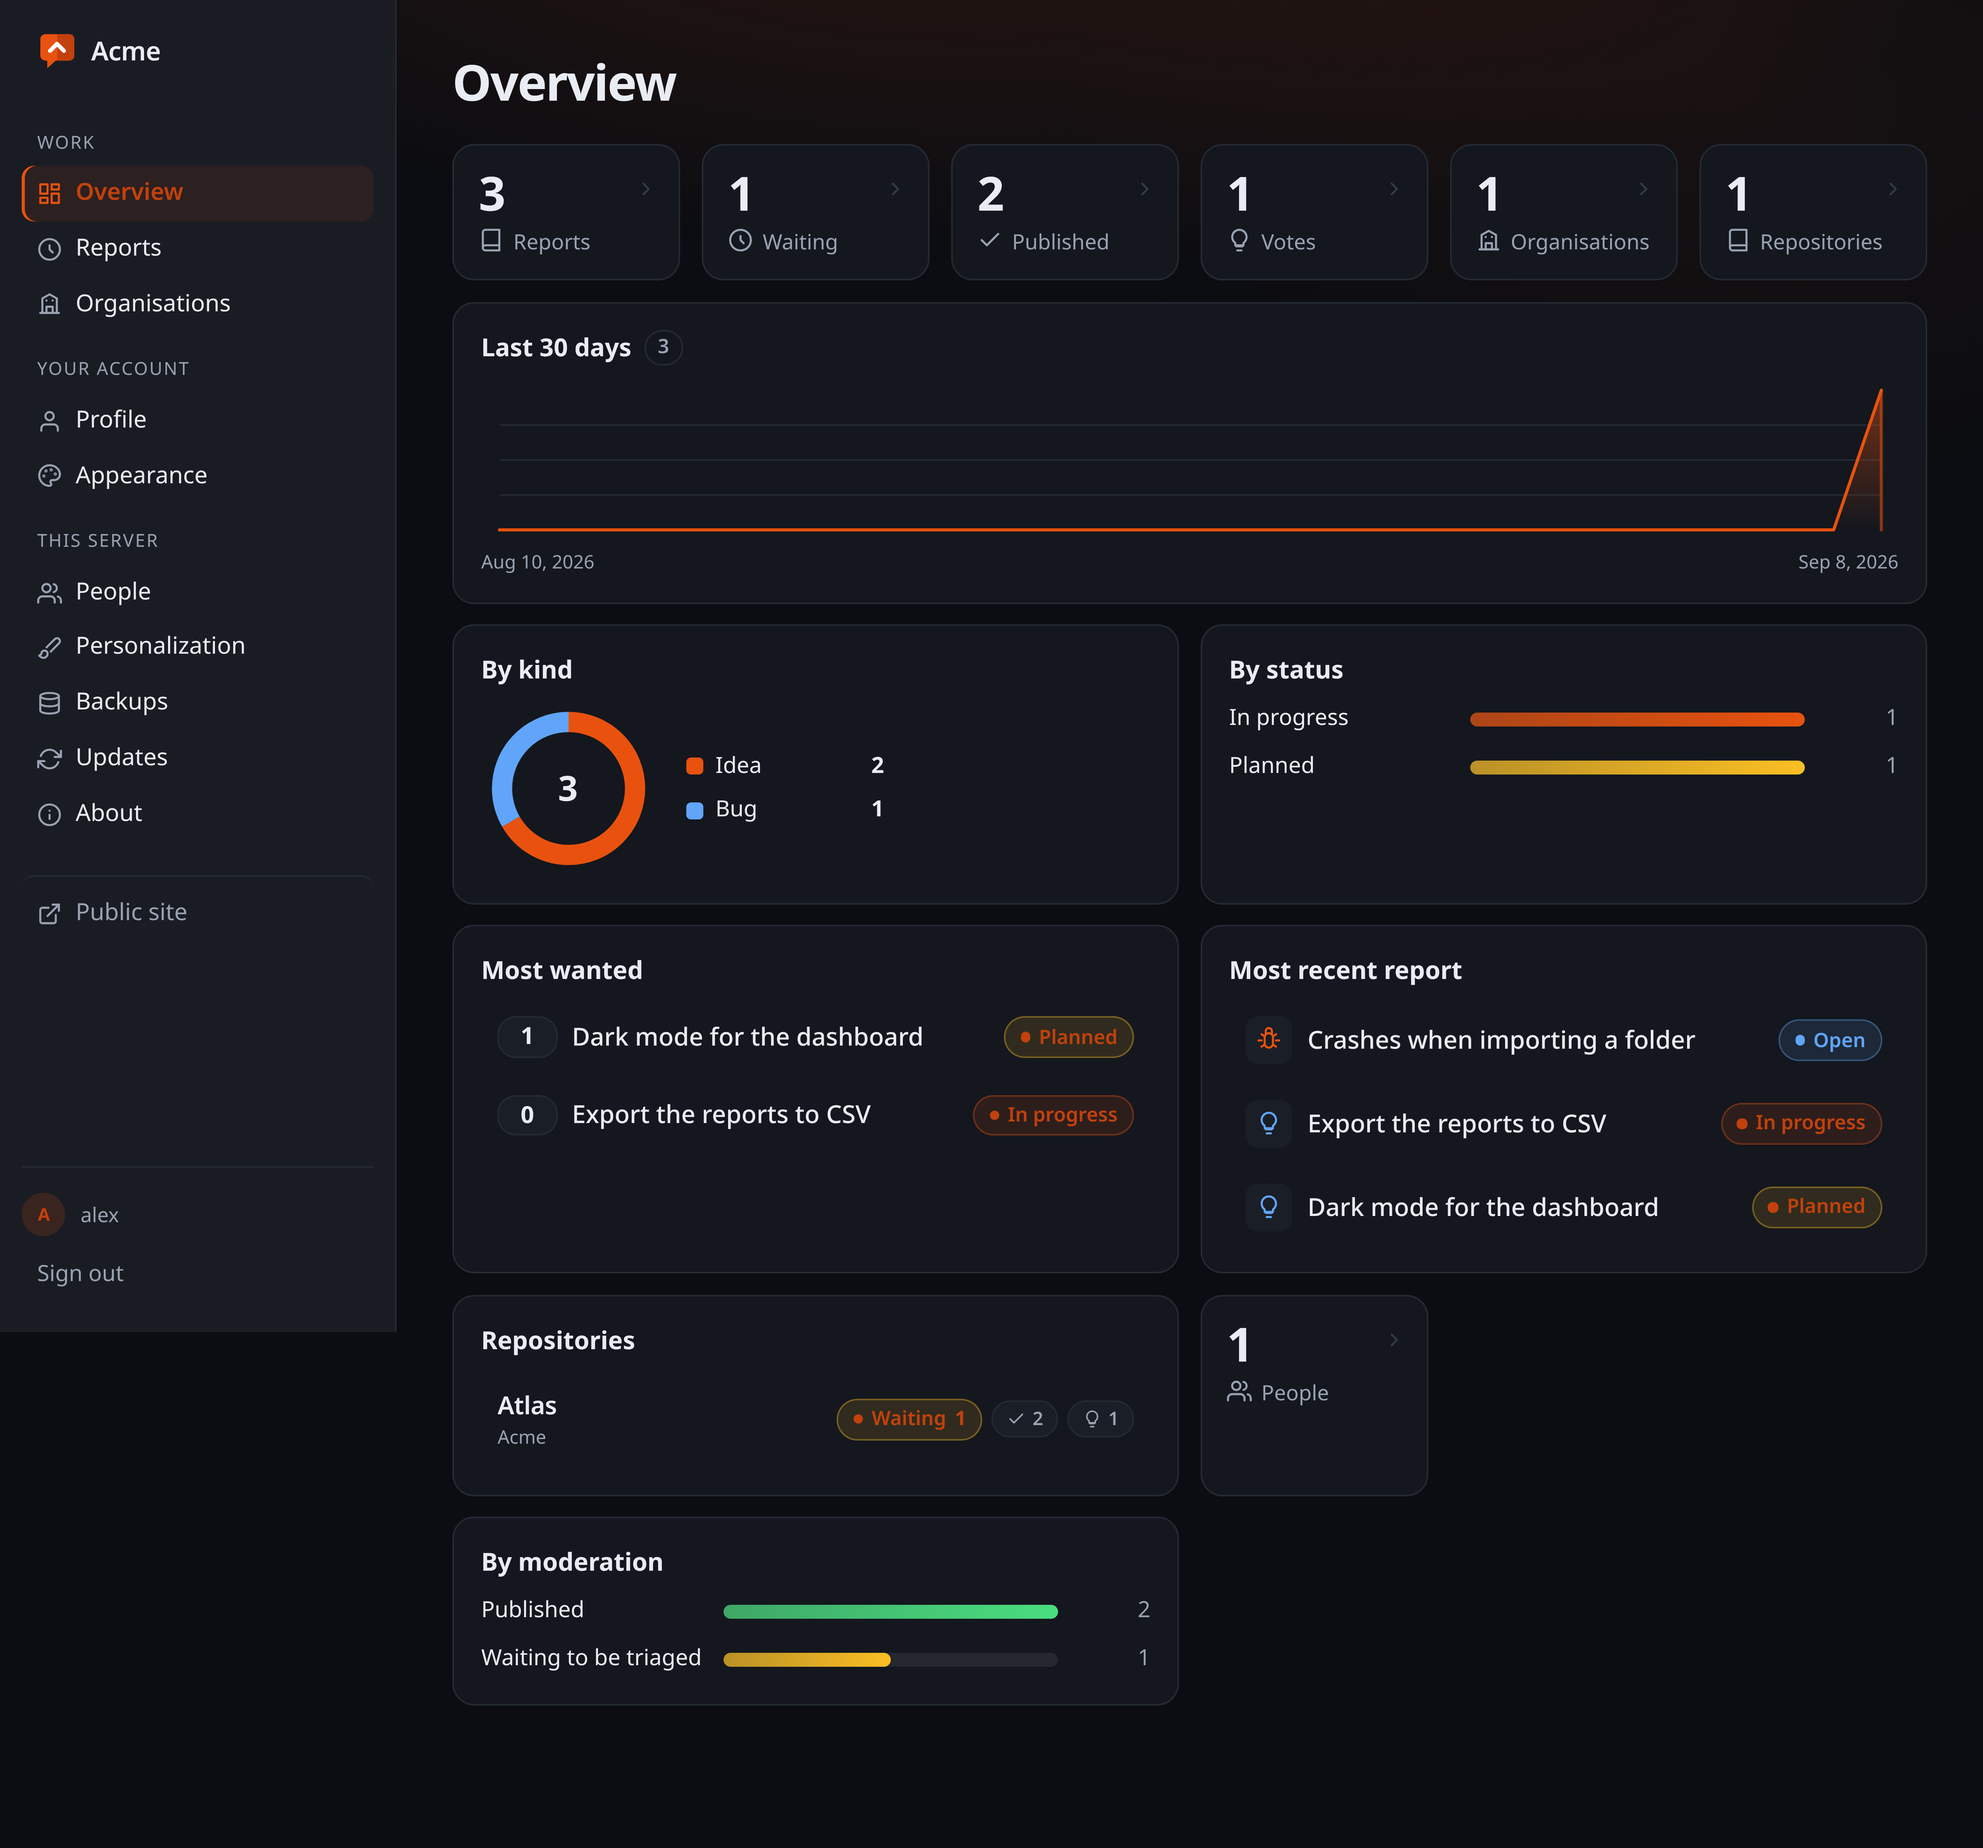
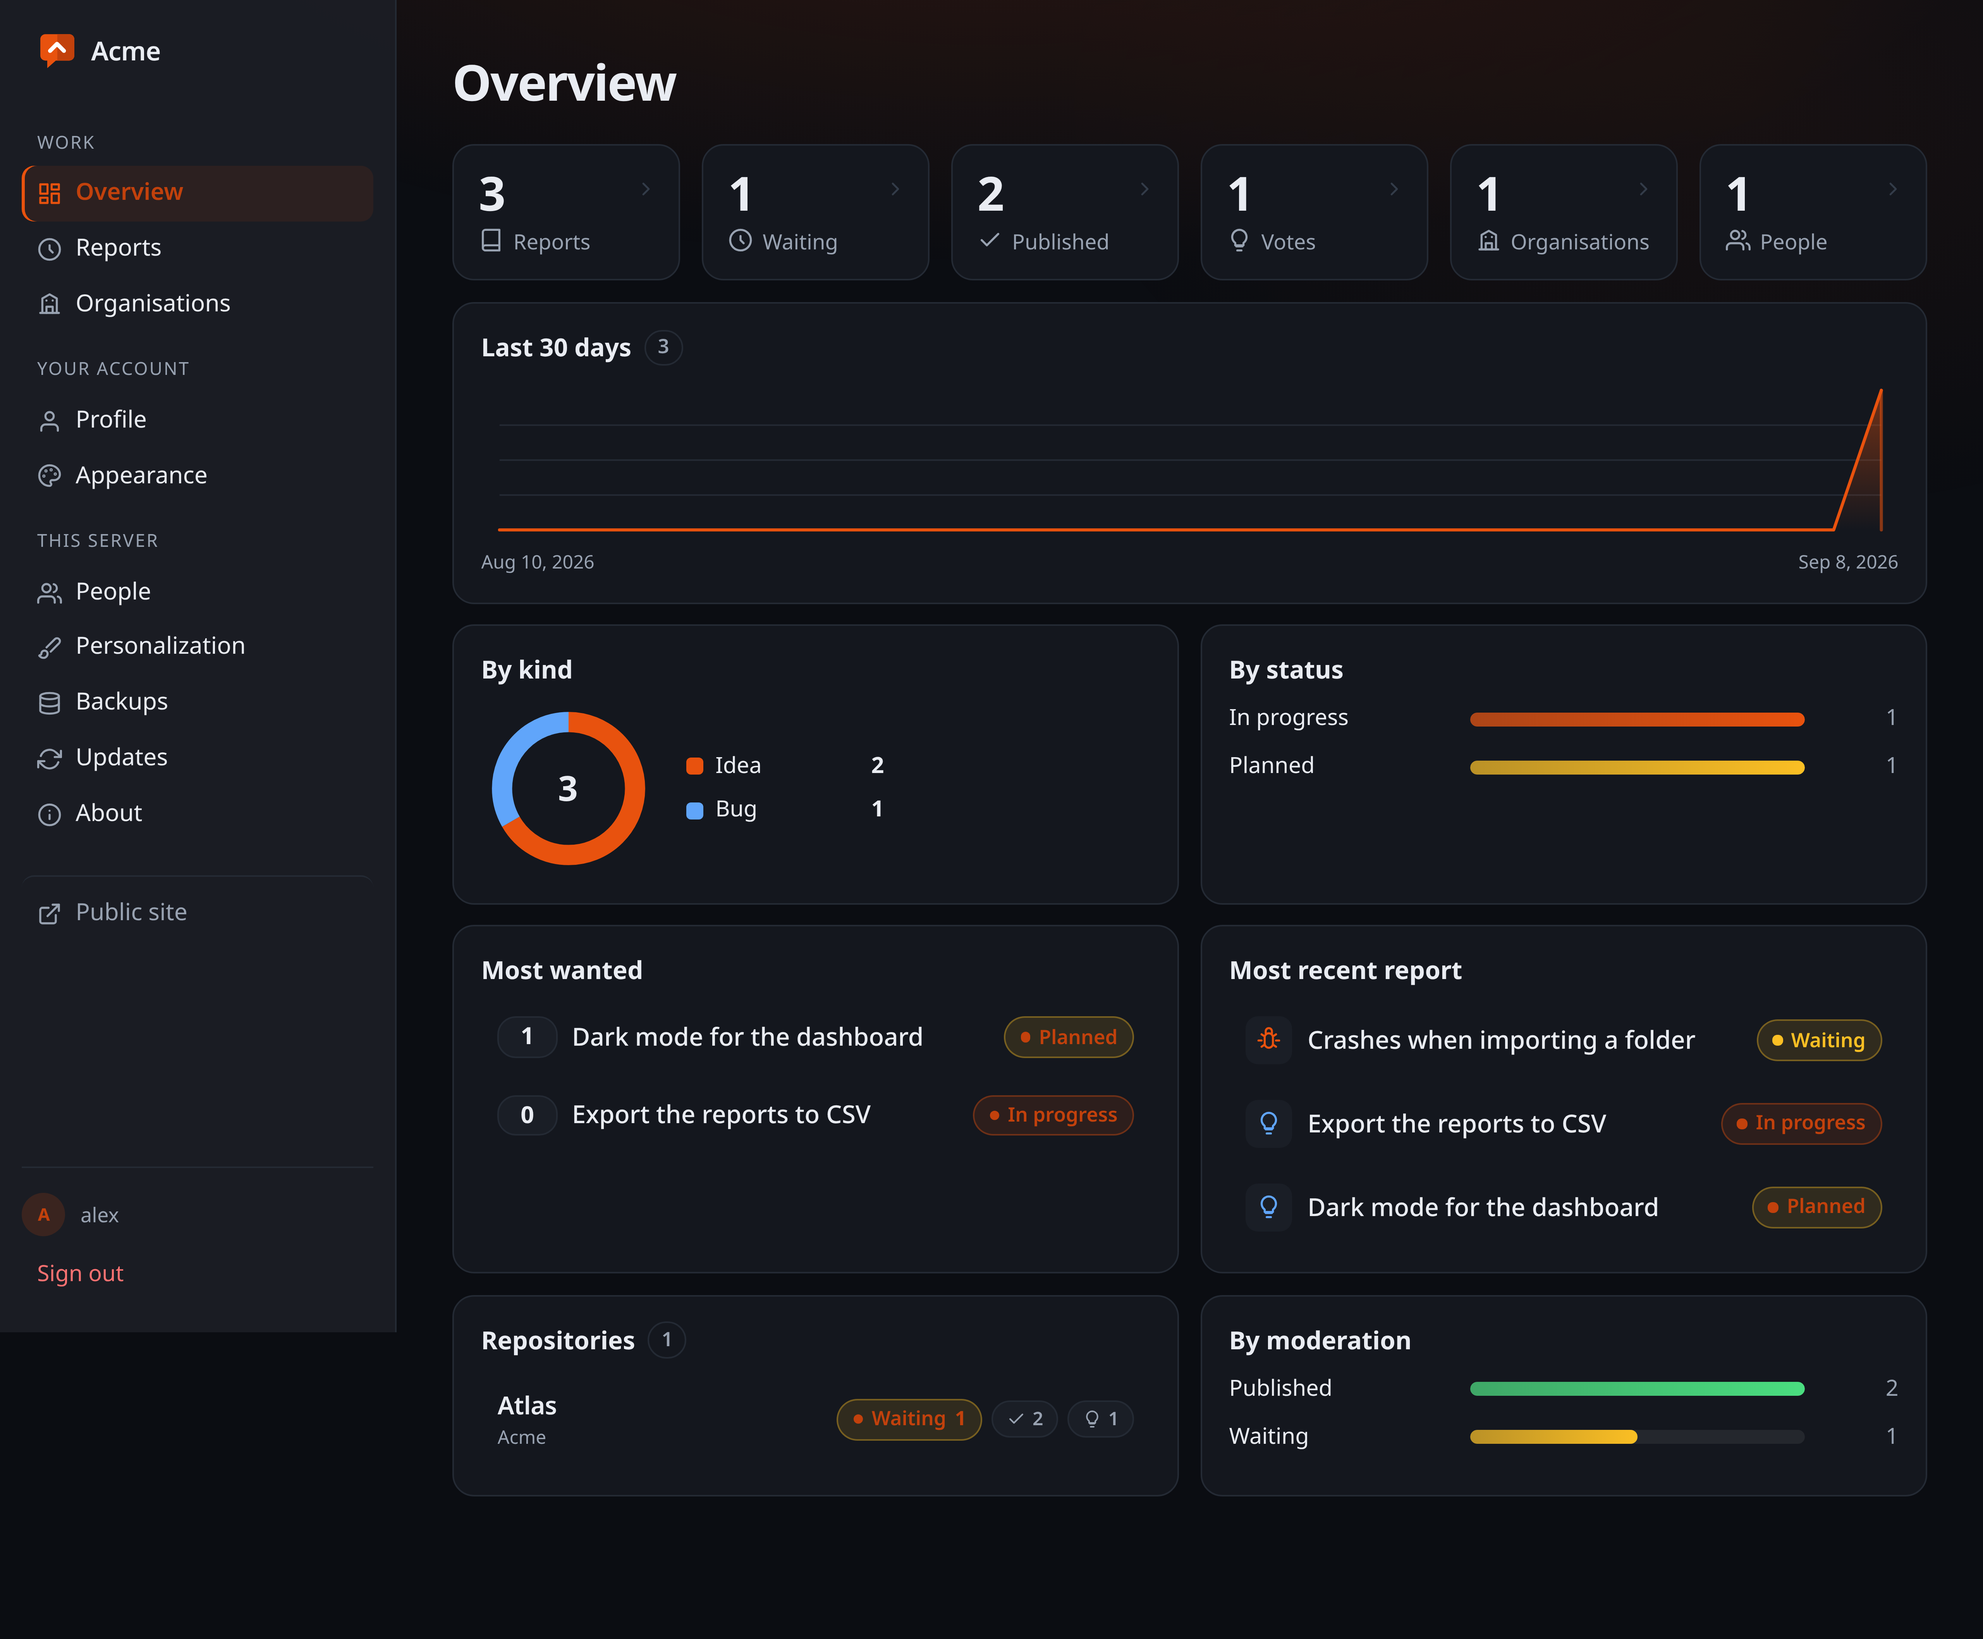
fix: a report waiting for review is not open, and People moves up a row
**The state.** A report that has not been published is not open — nobody
outside the team can see it — and every list showed its status anyway, so the
queue was full of rows wearing "Open". Until it is published the chip says what
it is waiting for; after that it says the status, which is what the board and
the roadmap are built from. One function decides that, and the listing, the
report and the overview's lists all call it: three places drawing the same chip
their own way is how this appeared in the first place.

It also ended a state said three ways — "Waiting" on the tab, "Waiting to be
triaged" on the bar, "Waiting for review" on the card. The bar takes the tab's
word in all twenty catalogues; the sentence stays where it is a sentence about
one report.

**The row.** People sat at the bottom while the top row had six tiles and the
bottom had a wide card with two columns of nothing beside it. Making room meant
noticing that repositories were counted twice — a tile saying "1" and a card
listing them — so the tile goes and its number moves to the card's own head.
Measured rather than eyeballed: the rows now come out as six tiles, the chart,
two pairs, and the last two wide cards side by side.

diff --git a/web/src/views/templates.ts b/web/src/views/templates.ts
@@ -1029,7 +1029,7 @@ export function itemView(item: ItemDetail, text: Text): string {
             ${item.kind === "bug" ? icons.bug(14) : icons.idea(14)}
             <span>${escapeHTML(text.t(`kind.${item.kind}`))}</span>
           </span>
-          <span class="status status-${escapeAttr(item.status)}">${escapeHTML(text.t(`status.${item.status}`))}</span>
+          ${stateChip(item, text)}
           <span class="when">${escapeHTML(text.date(item.created_at))}</span>
           ${issue}
         </p>
@@ -1817,15 +1817,14 @@ export const overviewCards = [
   "waiting",
   "published",
   "votes",
+  "organizations",
+  "people",
   "activity",
   "kinds",
   "statuses",
   "top",
   "recent",
   "boards",
-  "organizations",
-  "repositories",
-  "people",
   "moderation",
 ] as const;
 
@@ -1837,6 +1836,8 @@ export interface Brief {
   title: string;
   kind: string;
   status: string;
+  /** Absent means published: only the panel's lists carry anything else. */
+  moderation?: string;
   votes: number;
   created_at: number;
 }
@@ -1866,6 +1867,25 @@ export interface OverviewData {
   }[];
 }
 
+/**
+ * The state of a report as one chip: what it is waiting for, or what it is.
+ *
+ * A report that has not been published is not open — nobody outside the team
+ * can see it — and showing its status there said "Open" beside a row that was
+ * sitting in the queue. Until it is published the state is the moderation
+ * state; after that it is the status, which is the thing the roadmap and the
+ * board are built from.
+ */
+export function stateChip(
+  of: { status: string; moderation?: string },
+  text: Text,
+): string {
+  const waiting = of.moderation !== undefined && of.moderation !== "published";
+  const name = waiting ? String(of.moderation) : of.status;
+  const label = text.t(waiting ? `moderation.${name}` : `status.${name}`);
+  return `<span class="status status-${escapeAttr(name)}">${escapeHTML(label)}</span>`;
+}
+
 /** The mark of a kind, in the tile the rest of the product uses for it. */
 function kindMark(kind: string, size = 16): string {
   return `<span class="kind-mark kind-${escapeAttr(kind)}" aria-hidden="true">${
@@ -1882,7 +1902,7 @@ function briefRow(b: Brief, text: Text, showVotes = false): string {
         : kindMark(b.kind)
     }
     <span class="brief-title">${escapeHTML(b.title)}</span>
-    <span class="status status-${escapeAttr(b.status)}">${escapeHTML(text.t(`status.${b.status}`))}</span>
+    ${stateChip(b, text)}
   </a></li>`;
 }
 
@@ -2002,7 +2022,8 @@ export function overviewScreen(data: OverviewData, text: Text): string {
   // thing that is waiting rather than being the third grey number in a row.
   const boards = card(
     "boards",
-    `<h3>${escapeHTML(text.t("portal.boards"))}</h3>
+    `<h3>${escapeHTML(text.t("portal.boards"))}
+       <span class="count-chip">${number(data.repositories)}</span></h3>
      ${
        (data.boards ?? []).length === 0
          ? `<p class="hint">${escapeHTML(text.t("overview.nothingYet"))}</p>`
@@ -2036,7 +2057,6 @@ export function overviewScreen(data: OverviewData, text: Text): string {
     published: stat("published", data.published, text.t("overview.published"), icons.check(), "/panel/reports?moderation=published"),
     votes: stat("votes", data.votes, text.t("overview.votes"), icons.idea(), "/panel/reports?kind=idea&sort=votes"),
     organizations: stat("organizations", data.organizations, text.t("shell.organizations"), icons.organization(), "/panel/organizations"),
-    repositories: stat("repositories", data.repositories, text.t("portal.boards"), icons.repository(), "/panel/organizations"),
     people: stat("people", data.people, text.t("shell.people"), icons.people(), "/panel/people"),
     activity,
     kinds,
@@ -2121,7 +2141,7 @@ export function reportsScreen(data: ReportsData, filters: ReportFilters, text: T
 
   const moderationTabs = [
     tab("moderation", "", text.t("board.all"), totalOf(counts.moderation)),
-    tab("moderation", "pending", text.t("panel.queue"), counts.moderation.pending ?? 0),
+    tab("moderation", "pending", text.t("moderation.pending"), counts.moderation.pending ?? 0),
     tab("moderation", "published", text.t("moderation.published"), counts.moderation.published ?? 0),
     tab("moderation", "rejected", text.t("moderation.rejected"), counts.moderation.rejected ?? 0),
     tab("moderation", "spam", text.t("panel.spam"), counts.moderation.spam ?? 0),
@@ -2160,13 +2180,6 @@ export function reportsScreen(data: ReportsData, filters: ReportFilters, text: T
     const board = r.board
       ? `<span class="chip">${icons.repository(12)}<span>${escapeHTML(r.board.name)}</span></span>`
       : "";
-    const waiting =
-      r.moderation === "pending"
-        ? `<span class="chip waiting">${icons.queue(12)}<span>${escapeHTML(text.t("panel.queue"))}</span></span>`
-        : r.moderation === "published"
-          ? ""
-          : `<span class="chip">${escapeHTML(text.t(`moderation.${r.moderation}`))}</span>`;
-
     return `<li class="report" data-id="${escapeAttr(r.public_id)}">
       <a class="item" href="/i/${escapeAttr(r.public_id)}">
         ${
@@ -2184,10 +2197,9 @@ export function reportsScreen(data: ReportsData, filters: ReportFilters, text: T
               <span class="kind-name">${escapeHTML(text.t(`kind.${r.kind}`))}</span>
             </span>
             <span class="when">${escapeHTML(text.date(r.created_at))}</span>
-            ${waiting}
           </span>
         </span>
-        <span class="status status-${escapeAttr(r.status)}">${escapeHTML(text.t(`status.${r.status}`))}</span>
+        ${stateChip(r, text)}
       </a>
       ${
         // The decision, where the thing to decide about is. Only on what is

diff --git a/scripts/drive-check.ts b/scripts/drive-check.ts
@@ -941,7 +941,7 @@ async function main() {
   `);
   check(
     "the overview is one screen, the same for everybody",
-    overview.cards === 14 && overview.draggable === 0 && overview.arrange === false,
+    overview.cards === 13 && overview.draggable === 0 && overview.arrange === false,
     JSON.stringify(overview),
   );
   check(
@@ -1027,6 +1027,23 @@ async function main() {
     "and offers a decision only on what is actually waiting",
     listing.decisions === 1,
     `${listing.decisions} of ${listing.rows} rows carry the buttons`,
+  );
+
+  // A report nobody outside the team can see is not open, and its chip used to
+  // say so: the status is what a published report is in, and until then the
+  // state is what it is waiting for.
+  const states = await evaluate(`
+    return [...document.querySelectorAll(".report")].map(r => ({
+      decide: !!r.querySelector("[data-act]"),
+      state: r.querySelector(".status")?.className ?? "",
+    }));
+  `);
+  check(
+    "and nothing waiting for review is called open",
+    states.length > 1 &&
+      states.every((r: { decide: boolean; state: string }) =>
+        r.decide ? r.state.includes("status-pending") : !r.state.includes("status-pending")),
+    JSON.stringify(states),
   );
 
   await evaluate(`document.querySelector('[data-moderation="pending"]').click()`);

diff --git a/web/styles/theme.css b/web/styles/theme.css
@@ -3239,6 +3239,10 @@ a.stat:hover .stat-go {
 .status-done, .hue-done, .hue-published { --hue: var(--hue-done); }
 .status-closed, .status-declined, .status-not_reproducible,
 .hue-closed, .hue-declined, .hue-not_reproducible, .hue-rejected, .hue-spam { --hue: var(--hue-off); }
+/* A report that has not been published is not open. Its chip says what it is
+   waiting for, in the colour waiting wears everywhere else. */
+.status-pending { --hue: var(--hue-hold); }
+.status-rejected, .status-spam { --hue: var(--hue-off); }
 .hue-bug { --hue: var(--accent); }
 .hue-idea { --hue: var(--hue-open); }
 

diff --git a/internal/web/stats.go b/internal/web/stats.go
@@ -51,12 +51,15 @@ type dayCount struct {
 // itemBrief is a report as a line in a list: enough to recognise it and to go
 // to it, and nothing else.
 type itemBrief struct {
-	PublicID  string `json:"public_id"`
-	Title     string `json:"title"`
-	Kind      string `json:"kind"`
-	Status    string `json:"status"`
-	Votes     int    `json:"votes"`
-	CreatedAt int64  `json:"created_at"`
+	PublicID string `json:"public_id"`
+	Title    string `json:"title"`
+	Kind     string `json:"kind"`
+	Status   string `json:"status"`
+	// Moderation travels with it because a report that is not published is not
+	// open, and a list that shows only the status says it is.
+	Moderation string `json:"moderation"`
+	Votes      int    `json:"votes"`
+	CreatedAt  int64  `json:"created_at"`
 }
 
 // boardCount is one repository with the size of its work on it.
@@ -204,7 +207,7 @@ func (s *Server) activity(days int) ([]dayCount, error) {
 // out in full, not something a query string can reach.
 func (s *Server) briefs(where, order string, limit int) ([]itemBrief, error) {
 	rows, err := s.db.Query(
-		`SELECT public_id, title, kind, status, vote_count, created_at
+		`SELECT public_id, title, kind, status, moderation_state, vote_count, created_at
 		   FROM item WHERE merged_into IS NULL AND (` + where + `)
 		  ORDER BY ` + order + ` LIMIT ` + strconv.Itoa(limit))
 	if err != nil {
@@ -215,7 +218,8 @@ func (s *Server) briefs(where, order string, limit int) ([]itemBrief, error) {
 	out := []itemBrief{}
 	for rows.Next() {
 		var b itemBrief
-		if err := rows.Scan(&b.PublicID, &b.Title, &b.Kind, &b.Status, &b.Votes, &b.CreatedAt); err != nil {
+		if err := rows.Scan(&b.PublicID, &b.Title, &b.Kind, &b.Status, &b.Moderation,
+			&b.Votes, &b.CreatedAt); err != nil {
 			return nil, err
 		}
 		out = append(out, b)
